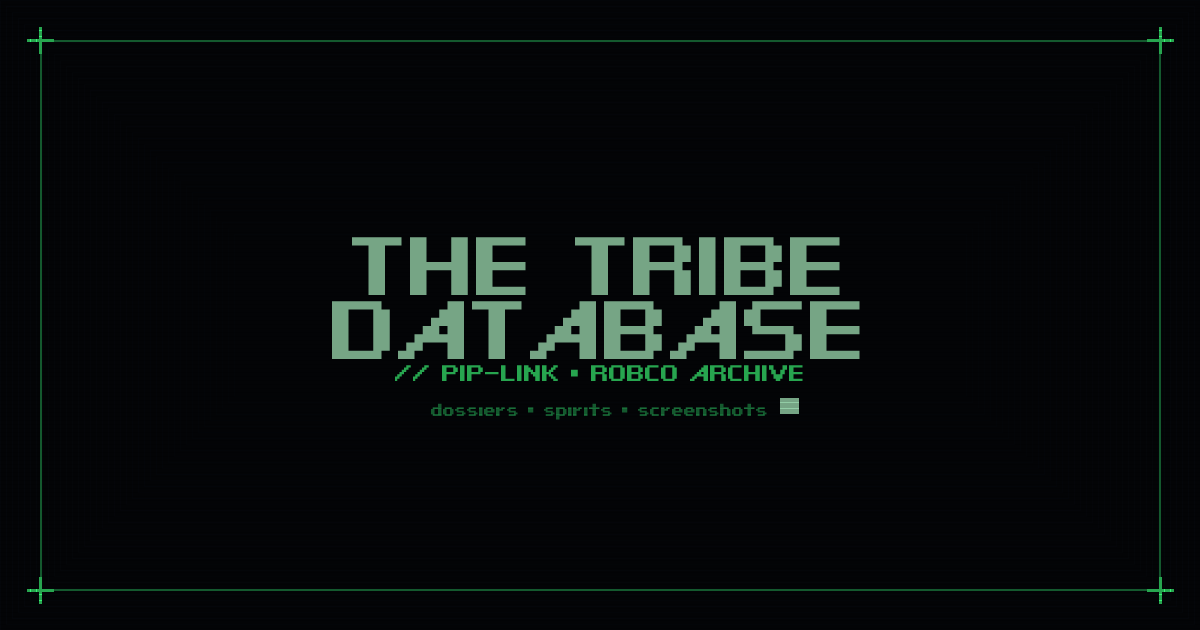
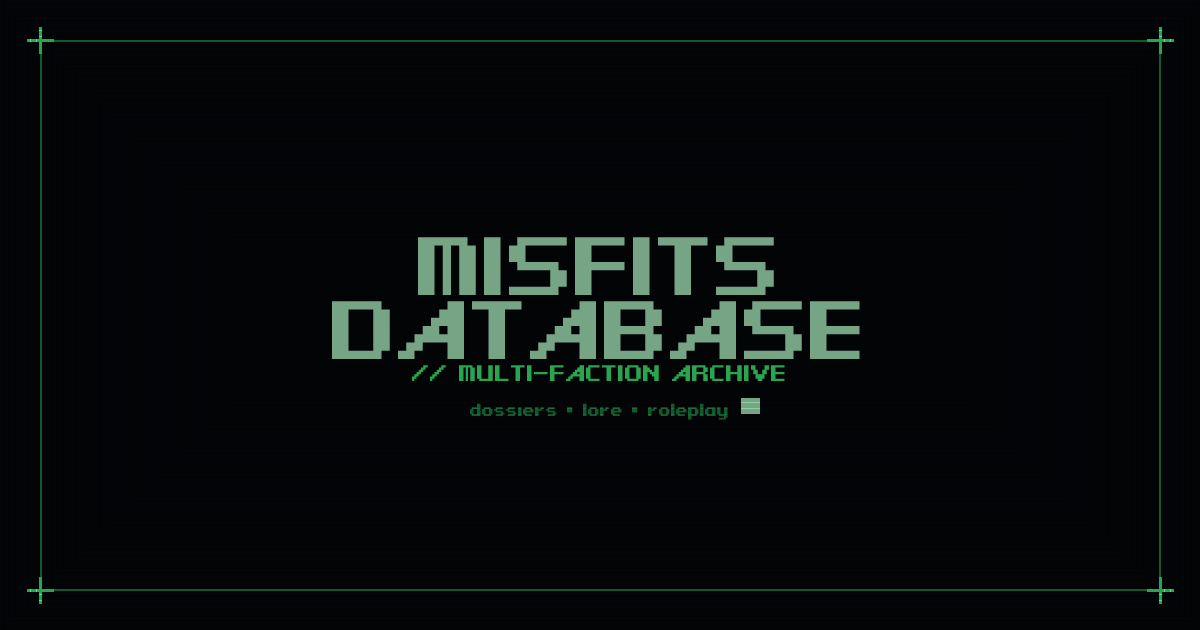
Rename the umbrella to "Misfits Database"
The app is a multi-faction umbrella, not just the Tribe. Give it a shared
umbrella brand for anything site-level while each faction keeps its own
brand in-app:
- index.html <title>, description, and OG tags now say "Misfits Database"
  (+ og:site_name); the JS still sets a per-faction document.title on load.
- boot sequence ends "MISFITS DATABASE — ONLINE".
- per-character share stubs use og:site_name "Misfits Database" (title
  keeps the faction sub-brand); regenerated all 43.
- OG card image redrawn: "MISFITS / DATABASE // MULTI-FACTION ARCHIVE".
- README + MAINTENANCE describe the umbrella + per-faction model.

Not touched: the GitHub repo name / deployed URL (renaming would break the
live dr-orac.github.io/oracular-db link) and the "Yuma Tribe Roster" source
folder (kept for history).

Changed region(s): [[0.2775, 0.3619, 0.7092, 0.4825], [0.3392, 0.6333, 0.6783, 0.6635], [0.3392, 0.573, 0.6783, 0.6032]]

diff --git a/index.html b/index.html
@@ -4,14 +4,16 @@
 <meta charset="UTF-8" />
 <meta name="viewport" content="width=device-width, initial-scale=1.0" />
 <meta name="color-scheme" content="dark" />
-<title>THE TRIBE DATABASE // PIP-LINK</title>
-<meta name="description" content="The Tribe character database — a Fallout-style terminal dossier viewer." />
+<title>Misfits Database</title>
+<meta name="description" content="Misfits Database — a multi-faction Fallout-style terminal viewer for SS14 roleplay factions (the Tribe, the Brotherhood of Steel, and more)." />
 <meta name="theme-color" content="#0a1a0f" />
-<!-- link-preview card (Discord / social) -->
+<!-- link-preview card (Discord / social). The SITE is the umbrella "Misfits Database";
+     each faction keeps its own brand once the app loads (JS sets a per-faction document.title). -->
 <meta property="og:type" content="website" />
+<meta property="og:site_name" content="Misfits Database" />
 <meta property="og:url" content="https://dr-orac.github.io/oracular-db/" />
-<meta property="og:title" content="The Tribe Database // PIP-LINK" />
-<meta property="og:description" content="Character dossiers for the tribe — Pip-Boy terminal style." />
+<meta property="og:title" content="Misfits Database" />
+<meta property="og:description" content="A multi-faction Fallout-style terminal viewer for SS14 roleplay factions — Pip-Boy dossiers, lore, and roleplay guides." />
 <meta property="og:image" content="https://dr-orac.github.io/oracular-db/og-card.png" />
 <meta name="twitter:card" content="summary_large_image" />
 <meta name="twitter:image" content="https://dr-orac.github.io/oracular-db/og-card.png" />

diff --git a/app.js b/app.js
@@ -1,5 +1,6 @@
 /* ====================================================================
-   THE TRIBE DATABASE  —  live read-only viewer for a Google Sheet
+   MISFITS DATABASE  —  multi-faction live read-only viewer for Google Sheets
+   (umbrella brand; each faction keeps its own brand — see FACTIONS below)
    --------------------------------------------------------------------
    Reads the public sheet via the gviz CSV endpoint (CORS-enabled for
    "anyone with link -> Viewer" sheets). No API key required to read.
@@ -2532,7 +2533,7 @@ function runBoot(){
 
   // step 4: type the final "online" line, brief pause, then fade
   function finalLine(){
-    const text="THE TRIBE DATABASE — ONLINE";
+    const text="MISFITS DATABASE — ONLINE";
     let ci2=0;
     (function typeFinal(){
       if(done) return;

diff --git a/c/andrew-stone.html b/c/andrew-stone.html
@@ -5,7 +5,7 @@
 <title>Andrew Stone // The Tribe Database</title>
 <meta name="description" content="“Hard-of-Arm” · Tribe member · Super mutant brave">
 <meta property="og:type" content="profile">
-<meta property="og:site_name" content="The Tribe Database">
+<meta property="og:site_name" content="Misfits Database">
 <meta property="og:title" content="Andrew Stone — The Tribe Database">
 <meta property="og:description" content="“Hard-of-Arm” · Tribe member · Super mutant brave">
 <meta property="og:image" content="https://dr-orac.github.io/oracular-db/og-card.png">

diff --git a/c/arrow-in-night.html b/c/arrow-in-night.html
@@ -5,7 +5,7 @@
 <title>Arrow in night // The Tribe Database</title>
 <meta name="description" content="“Arrow-in-Night” · Brave/Translator — male, in his 20s, dark messy hair with a beard coming in, somewhere under 2 meters tall, scarred eye and body">
 <meta property="og:type" content="profile">
-<meta property="og:site_name" content="The Tribe Database">
+<meta property="og:site_name" content="Misfits Database">
 <meta property="og:title" content="Arrow in night — The Tribe Database">
 <meta property="og:description" content="“Arrow-in-Night” · Brave/Translator — male, in his 20s, dark messy hair with a beard coming in, somewhere under 2 meters tall, scarred eye and body">
 <meta property="og:image" content="https://dr-orac.github.io/oracular-db/og-card.png">

diff --git a/c/azalea-webb.html b/c/azalea-webb.html
@@ -5,7 +5,7 @@
 <title>Azalea Webb // The Tribe Database</title>
 <meta name="description" content="NCR combat medic (NCRA) · stationed at Wendover — 29. Grew up in Shady Sands. Enlisted as a combat medic at 25 to make her son proud — and drew the worst posting, Wendover. Captured and…">
 <meta property="og:type" content="profile">
-<meta property="og:site_name" content="The Tribe Database">
+<meta property="og:site_name" content="Misfits Database">
 <meta property="og:title" content="Azalea Webb — The Tribe Database">
 <meta property="og:description" content="NCR combat medic (NCRA) · stationed at Wendover — 29. Grew up in Shady Sands. Enlisted as a combat medic at 25 to make her son proud — and drew the worst posting, Wendover. Captured and…">
 <meta property="og:image" content="https://dr-orac.github.io/oracular-db/og-card.png">

diff --git a/c/beren-gar.html b/c/beren-gar.html
@@ -5,7 +5,7 @@
 <title>Beren-Gar // The Tribe Database</title>
 <meta name="description" content="Yong blood · Heavy gunner">
 <meta property="og:type" content="profile">
-<meta property="og:site_name" content="The Tribe Database">
+<meta property="og:site_name" content="Misfits Database">
 <meta property="og:title" content="Beren-Gar — The Tribe Database">
 <meta property="og:description" content="Yong blood · Heavy gunner">
 <meta property="og:image" content="https://dr-orac.github.io/oracular-db/og-card.png">

diff --git a/c/betty-beeps-birch.html b/c/betty-beeps-birch.html
@@ -5,7 +5,7 @@
 <title>Betty Beeps Birch // The Tribe Database</title>
 <meta name="description" content="Care taker, frog-rider, chieftain step-in, the tribal war general despite their best actions not to be. — Frazzelled red tangled hair reaches over her plain face, she wears the muffalo…">
 <meta property="og:type" content="profile">
-<meta property="og:site_name" content="The Tribe Database">
+<meta property="og:site_name" content="Misfits Database">
 <meta property="og:title" content="Betty Beeps Birch — The Tribe Database">
 <meta property="og:description" content="Care taker, frog-rider, chieftain step-in, the tribal war general despite their best actions not to be. — Frazzelled red tangled hair reaches over her plain face, she wears the muffalo…">
 <meta property="og:image" content="https://dr-orac.github.io/oracular-db/og-card.png">

diff --git a/c/big-brom-matlok.html b/c/big-brom-matlok.html
@@ -5,7 +5,7 @@
 <title>Big Brom Matlok // The Tribe Database</title>
 <meta name="description" content="“Carries-The-Weight” · Chief of the Tribe · Shaman of the Brahmin — Male. Over 2m tall. Dark skin. Early forties. Heavy build. Long black ponytail. Long handlebar moustache. Big, but…">
 <meta property="og:type" content="profile">
-<meta property="og:site_name" content="The Tribe Database">
+<meta property="og:site_name" content="Misfits Database">
 <meta property="og:title" content="Big Brom Matlok — The Tribe Database">
 <meta property="og:description" content="“Carries-The-Weight” · Chief of the Tribe · Shaman of the Brahmin — Male. Over 2m tall. Dark skin. Early forties. Heavy build. Long black ponytail. Long handlebar moustache. Big, but…">
 <meta property="og:image" content="https://dr-orac.github.io/oracular-db/og-card.png">

diff --git a/c/bishop.html b/c/bishop.html
@@ -5,7 +5,7 @@
 <title>Bishop // The Tribe Database</title>
 <meta name="description" content="A member of the Tribe.">
 <meta property="og:type" content="profile">
-<meta property="og:site_name" content="The Tribe Database">
+<meta property="og:site_name" content="Misfits Database">
 <meta property="og:title" content="Bishop — The Tribe Database">
 <meta property="og:description" content="A member of the Tribe.">
 <meta property="og:image" content="https://dr-orac.github.io/oracular-db/og-card.png">

diff --git a/c/black-soil.html b/c/black-soil.html
@@ -5,7 +5,7 @@
 <title>Black Soil // The Tribe Database</title>
 <meta name="description" content="“Spiriter-of-Earth” · Tribal Farmer — 30 / male / Short and stout guy with long black hair and a beard">
 <meta property="og:type" content="profile">
-<meta property="og:site_name" content="The Tribe Database">
+<meta property="og:site_name" content="Misfits Database">
 <meta property="og:title" content="Black Soil — The Tribe Database">
 <meta property="og:description" content="“Spiriter-of-Earth” · Tribal Farmer — 30 / male / Short and stout guy with long black hair and a beard">
 <meta property="og:image" content="https://dr-orac.github.io/oracular-db/og-card.png">

diff --git a/c/cass.html b/c/cass.html
@@ -5,7 +5,7 @@
 <title>Cass // The Tribe Database</title>
 <meta name="description" content="“Puppy-of-Securityor ... Edge-Of-Knife” · Hunter and Gatherer, Warrior — A short, ginger haired female">
 <meta property="og:type" content="profile">
-<meta property="og:site_name" content="The Tribe Database">
+<meta property="og:site_name" content="Misfits Database">
 <meta property="og:title" content="Cass — The Tribe Database">
 <meta property="og:description" content="“Puppy-of-Securityor ... Edge-Of-Knife” · Hunter and Gatherer, Warrior — A short, ginger haired female">
 <meta property="og:image" content="https://dr-orac.github.io/oracular-db/og-card.png">

diff --git a/c/cassidy-cadaver.html b/c/cassidy-cadaver.html
@@ -5,7 +5,7 @@
 <title>Cassidy Cadaver // The Tribe Database</title>
 <meta name="description" content="Friend of the tribe, not a member · Pre-war witness — Wide-brimmed hat, long coat, brace of clean pistols. Two centuries of wasteland dust.">
 <meta property="og:type" content="profile">
-<meta property="og:site_name" content="The Tribe Database">
+<meta property="og:site_name" content="Misfits Database">
 <meta property="og:title" content="Cassidy Cadaver — The Tribe Database">
 <meta property="og:description" content="Friend of the tribe, not a member · Pre-war witness — Wide-brimmed hat, long coat, brace of clean pistols. Two centuries of wasteland dust.">
 <meta property="og:image" content="https://dr-orac.github.io/oracular-db/og-card.png">